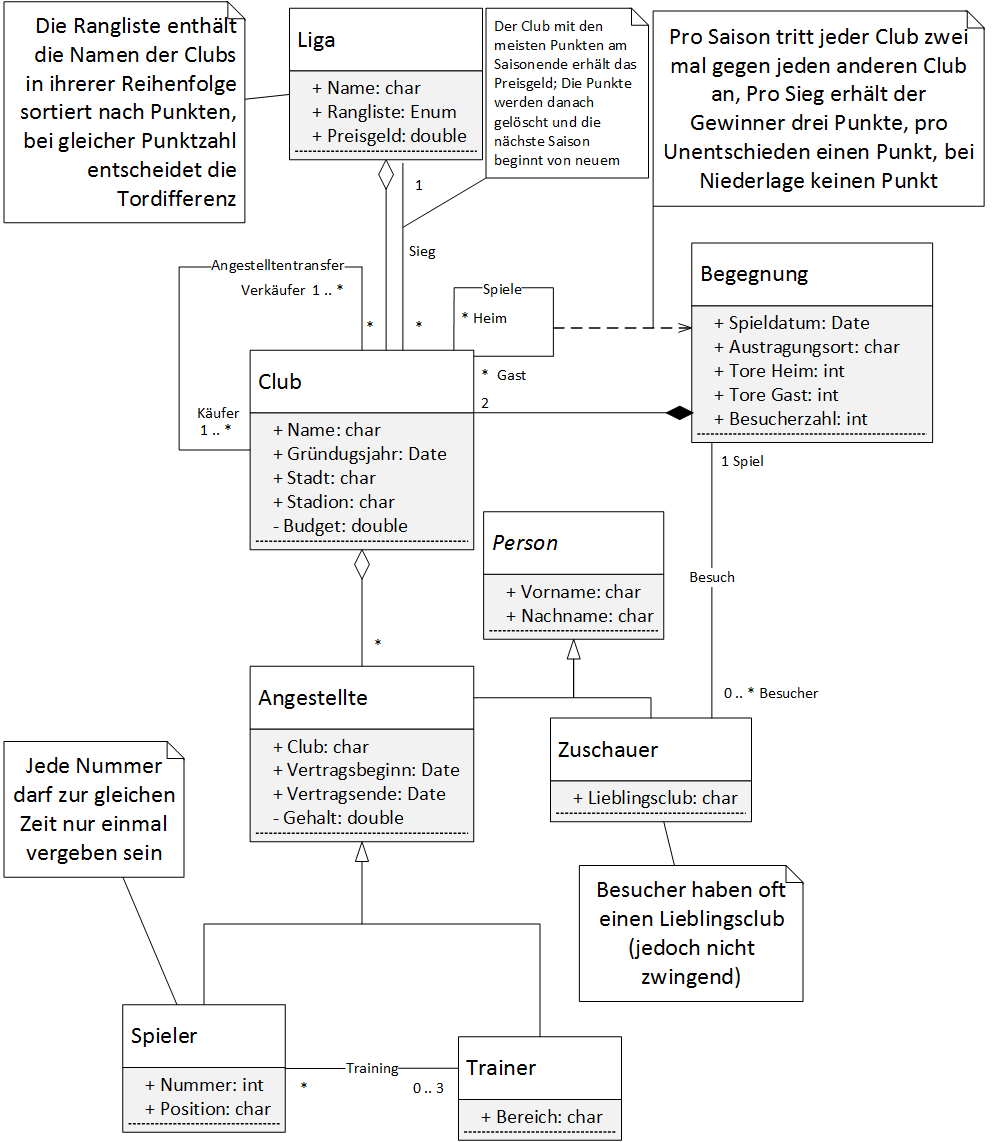
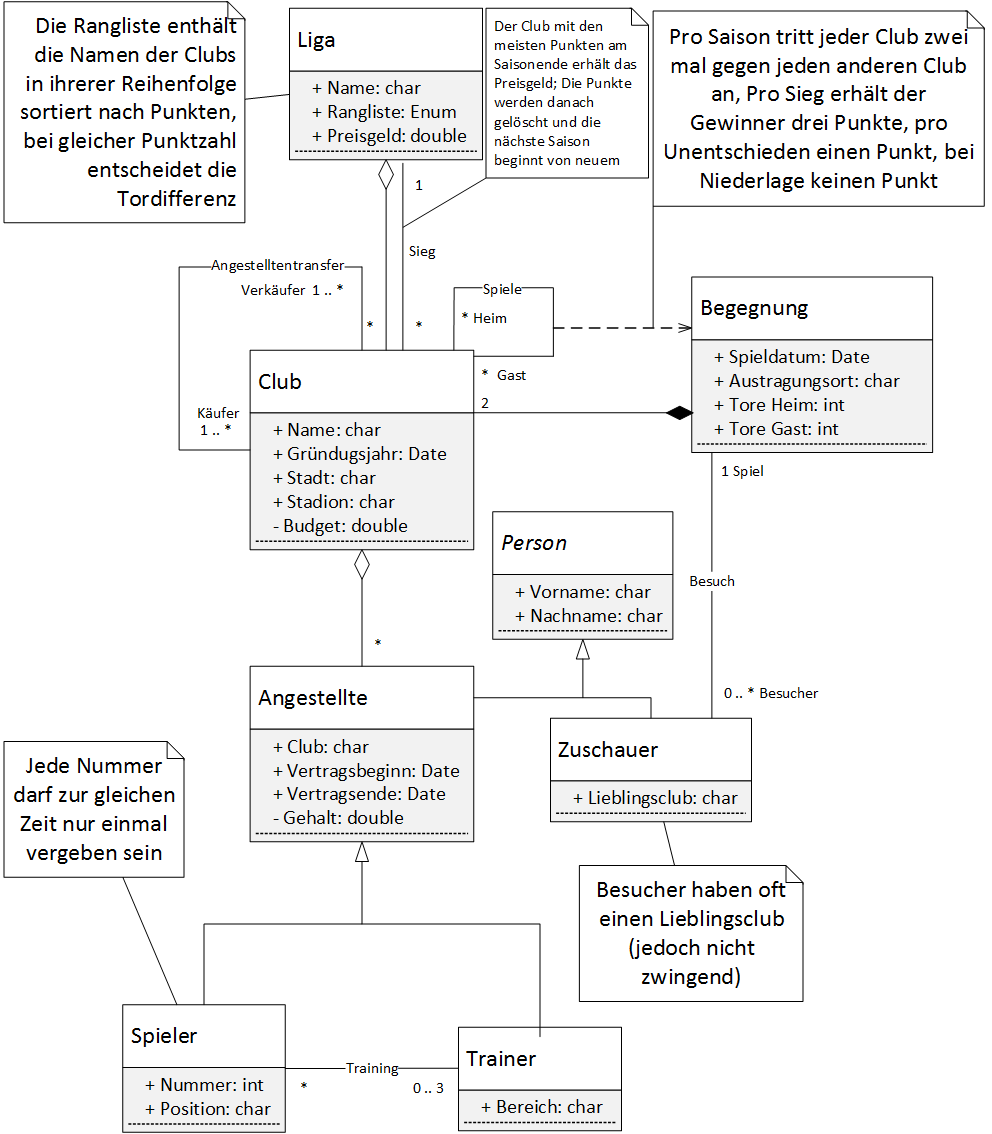
removed visitorcount attribute (exists as relation)

diff --git a/RelationalesModell.html b/RelationalesModell.html
@@ -78,8 +78,7 @@ h3 {
     <pk>Spieldatum</pk> DATE NOT NULL, <br>
     <fk>Austragungsort</fk> NOT NULL REFERENCES Clubs(Stadion), <br>
     ToreHeim INT NOT NULL, <br>
-    ToreGast INT NOT NULL, <br>
-    Besucherzahl INT NOT NULL)</p>
+    ToreGast INT NOT NULL)</p>
 <hr>
 <p>Zuschauer(<pk>ZuschauerId</pk> INT, <br>
     Vorname TEXT NOT NULL, <br>
